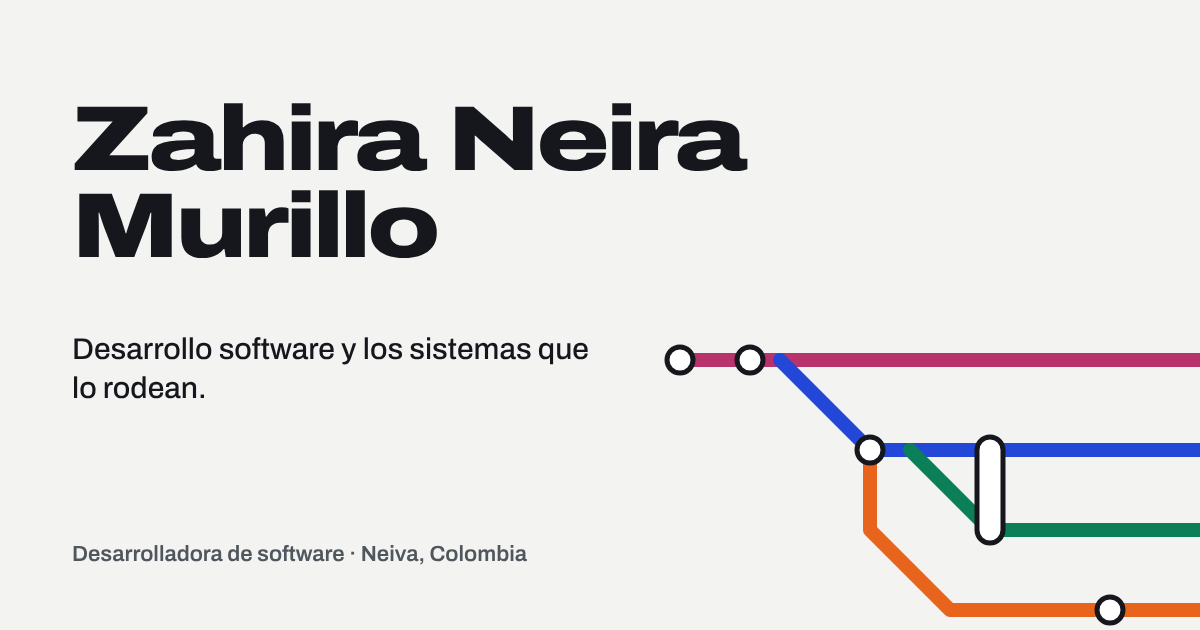
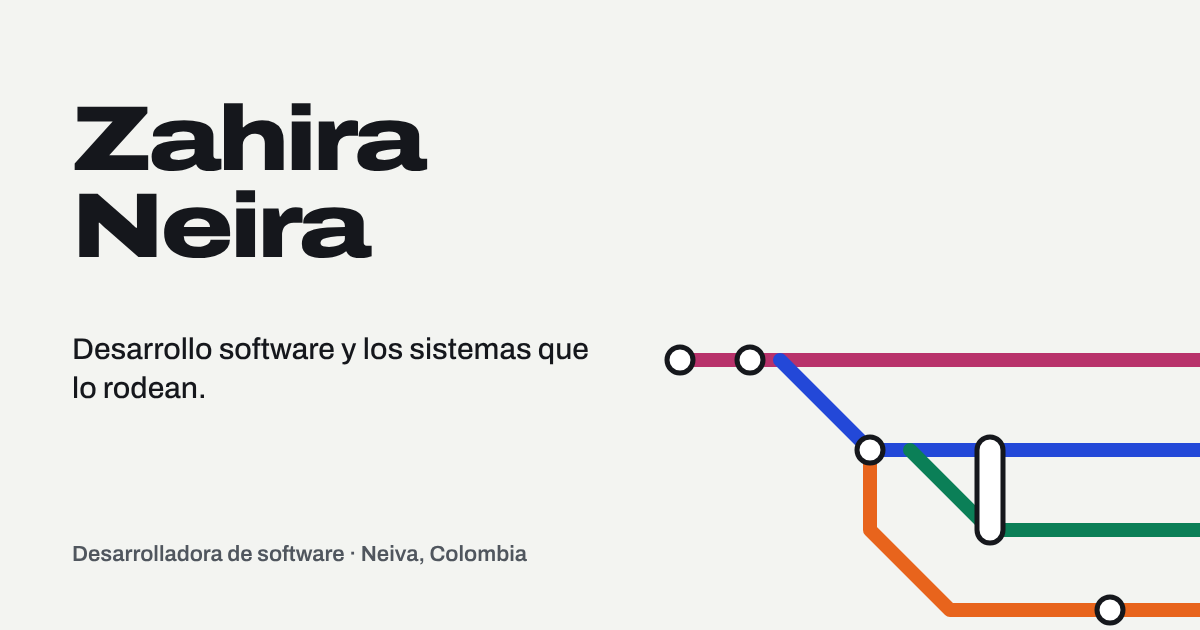
Usar el nombre Zahira Neira en todo el sitio
Claude-Session: https://claude.ai/code/session_01KcahVwL3vP11WjTbCPcnDe

Changed region(s): [[0.0617, 0.3016, 0.37, 0.4222], [0.37, 0.1508, 0.6475, 0.2714]]

diff --git a/index.html b/index.html
@@ -6,12 +6,12 @@
       name="viewport"
       content="width=device-width, initial-scale=1, viewport-fit=cover, interactive-widget=resizes-content"
     />
-    <title>Zahira Neira Murillo | Desarrolladora de software</title>
+    <title>Zahira Neira | Desarrolladora de software</title>
     <meta
       name="description"
-      content="Zahira Neira Murillo, Tecnóloga en Desarrollo de Software de la Universidad Surcolombiana. Sitios web con Next.js y React, y HEBRIX, una plataforma CRM de marca propia sobre GoHighLevel."
+      content="Zahira Neira, Tecnóloga en Desarrollo de Software de la Universidad Surcolombiana. Sitios web con Next.js y React, y HEBRIX, una plataforma CRM de marca propia sobre GoHighLevel."
     />
-    <meta name="author" content="Zahira Neira Murillo" />
+    <meta name="author" content="Zahira Neira" />
     <meta name="theme-color" media="(prefers-color-scheme: light)" content="#F3F4F1" />
     <meta name="theme-color" media="(prefers-color-scheme: dark)" content="#121418" />
     <meta name="color-scheme" content="light dark" />
@@ -19,7 +19,7 @@
 
     <meta property="og:type" content="profile" />
     <meta property="og:locale" content="es_CO" />
-    <meta property="og:title" content="Zahira Neira Murillo | Desarrolladora de software" />
+    <meta property="og:title" content="Zahira Neira | Desarrolladora de software" />
     <meta
       property="og:description"
       content="Sitios web, productos digitales y CRM con automatización. Tecnóloga en Desarrollo de Software, Neiva, Colombia."
@@ -33,7 +33,7 @@
       {
         "@context": "https://schema.org",
         "@type": "Person",
-        "name": "Zahira Neira Murillo",
+        "name": "Zahira Neira",
         "jobTitle": "Desarrolladora de software",
         "address": { "@type": "PostalAddress", "addressLocality": "Neiva", "addressCountry": "CO" },
         "alumniOf": { "@type": "CollegeOrUniversity", "name": "Universidad Surcolombiana" },

diff --git a/src/content/profile.ts b/src/content/profile.ts
@@ -23,7 +23,7 @@ export const lines: Record<LineId, Line> = {
 };
 
 export const profile = {
-  name: 'Zahira Neira Murillo',
+  name: 'Zahira Neira',
   shortName: 'Zahira Neira',
   role: 'Desarrolladora de software',
   age: 20,

diff --git a/docs/DIRECTION.md b/docs/DIRECTION.md
@@ -1,6 +1,6 @@
 # Dirección de diseño (documento interno, no se publica)
 
-Contrato de dirección para el portafolio de Zahira Neira Murillo. Sirve para revisar
+Contrato de dirección para el portafolio de Zahira Neira. Sirve para revisar
 cualquier cambio futuro: si una decisión contradice este documento, se discute antes.
 
 ## Proceso seguido

diff --git a/README.md b/README.md
@@ -1,4 +1,4 @@
-# Portafolio de Zahira Neira Murillo
+# Portafolio de Zahira Neira
 
 Tecnóloga en Desarrollo de Software (Universidad Surcolombiana). Sitios web, productos
 digitales y CRM con automatización.
